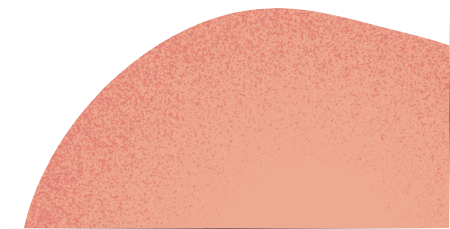
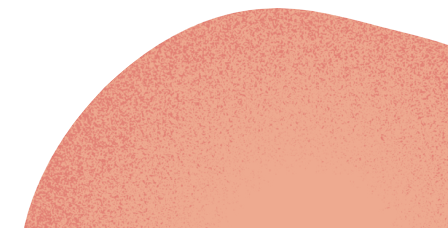
[Commit11] Project completed, Github Collaboration Calendar canceled. TODO: Add responsiveness to rest of items

diff --git a/src/app/feature/about/about.component.css b/src/app/feature/about/about.component.css
@@ -1,6 +1,6 @@
 .about{
     background-color: #EAEAEA;
-    padding-bottom: 2550px;
+    padding-bottom: 2203px;
 }
 .body{
     font-family: 'Montserrat';
@@ -76,7 +76,7 @@
 }
 #blob4{
     position: absolute;
-    top: 2208px;
+    bottom: -235.3%;
     right: 0;
 
     width: 20%;
@@ -85,7 +85,7 @@
 }
 #blob5{
     position: absolute;
-    top: 2234px;
+    bottom: -235.3%;
     left: 0;
 
     width: 20%;
@@ -250,16 +250,6 @@ img{
     left: 25%;
 }
 
-
-.commitsBox{
-    position: absolute;
-    top: 2000px;
-    display: block;
-    align-items: center;
-    text-align: center;
-    width: 100%;
-}
-
 #a{
     width: 800px;
     height: inherit;
@@ -271,7 +261,7 @@ img{
     background-color: transparent;
     height: 150px;
     position: absolute;
-    top: 2400px;
+    top: 2000px;
 }
 
 .text{

diff --git a/src/app/feature/resume/resume.component.html b/src/app/feature/resume/resume.component.html
@@ -19,10 +19,10 @@
             Ou também pode acessar e baixar meu currículo diretamente por aqui!
         </div>
         <div class="resumeImage">
-            <a href="assets/resume.pdf" download="resume.pdf"><img src="assets/resumeImg.jpg" id="resumeImg"></a>
+            <a href="assets/Curriculo_Daniel_Carvalho.pdf" download="Curriculo_Daniel_Carvalho.pdf"><img src="assets/resumeImg.jpg" id="resumeImg"></a>
         </div>
         <div class="downloadBtn">
-            <a id="button" href="assets/resume.pdf" download="resume.pdf">Baixar</a>
+            <a id="button" href="assets/Curriculo_Daniel_Carvalho.pdf" download="Curriculo_Daniel_Carvalho.pdf">Baixar</a>
         </div>
     </div>
     <div class="footer">

diff --git a/src/app/feature/projects/projects.component.css b/src/app/feature/projects/projects.component.css
@@ -3,7 +3,7 @@
          background-repeat: no-repeat;
         background-attachment: scroll;*/
     background-color: #EAEAEA;
-    padding-bottom: 2650px;
+    padding-bottom: 2653px;
 }
 
 .header {
@@ -91,7 +91,7 @@
     height: inherit;
 
     position: absolute;
-    top: 367%;
+    bottom: -304%;
     left: -10%;
 }
 #blob4{
@@ -101,7 +101,7 @@
     height: inherit;
 
     position: absolute;
-    top: 357%;
+    bottom: -304%;
     right: 0;
 }
 #blob5{
@@ -134,6 +134,7 @@
     background-color: white;
     opacity: 0.8;
     transition: 0.5s;
+    border-color: #61616163;
 }
 #cardImg{
     border: #586EA6 solid 6px;

diff --git a/src/app/feature/home/home.component.css b/src/app/feature/home/home.component.css
@@ -3,7 +3,7 @@
      background-repeat: no-repeat;
     background-attachment: scroll;*/
     background-color: #EAEAEA;
-    padding-bottom: 1250px;
+    padding-bottom: 1254px;
 }
 .header{
     /* background-color: red; */
@@ -133,7 +133,7 @@
     height: inherit;
 
     position: absolute;
-    bottom: -90%;
+    bottom: -91%;
     left: 0;
 }
 #blob4{
@@ -141,7 +141,7 @@
     height: inherit;
 
     position: absolute;
-    bottom: -90%;
+    bottom: -91%;
     right: 0;
 }
 #blob5{
@@ -149,7 +149,7 @@
     height: inherit;
 
     position: absolute;
-    top: 500px;
+    top: 70%;
     right: 0;
 }
 

diff --git a/src/app/feature/home/home.component.ts b/src/app/feature/home/home.component.ts
@@ -1,4 +1,5 @@
 import { Component, OnInit } from '@angular/core';
+import {Title} from "@angular/platform-browser";
 
 @Component({
   selector: 'app-home',
@@ -11,7 +12,9 @@ export class HomeComponent implements OnInit {
   dateTime: Date = new Date();
   faders = document.querySelectorAll('.textBox2');
   
-  constructor() { }
+  constructor(private titleService:Title) {
+    this.titleService.setTitle("Portfolio");
+  }
 
   ngOnInit(): void {
     if(this.dateTime.getHours() > 6 && this.dateTime.getHours() <= 11){

diff --git a/src/app/feature/projects/projects.component.ts b/src/app/feature/projects/projects.component.ts
@@ -1,4 +1,5 @@
 import { Component, OnInit } from '@angular/core';
+import {Title} from "@angular/platform-browser";
 
 @Component({
   selector: 'app-projects',
@@ -7,7 +8,9 @@ import { Component, OnInit } from '@angular/core';
 })
 export class ProjectsComponent implements OnInit {
 
-  constructor() { }
+  constructor(private titleService:Title) {
+    this.titleService.setTitle("Portfolio - Projetos");
+  }
 
   ngOnInit(): void {
   }

diff --git a/src/app/feature/resume/resume.component.ts b/src/app/feature/resume/resume.component.ts
@@ -1,4 +1,5 @@
 import { Component, OnInit } from '@angular/core';
+import {Title} from "@angular/platform-browser";
 
 @Component({
   selector: 'app-resume',
@@ -7,7 +8,9 @@ import { Component, OnInit } from '@angular/core';
 })
 export class ResumeComponent implements OnInit {
 
-  constructor() { }
+  constructor(private titleService:Title) {
+    this.titleService.setTitle("Portfolio - Currículo");
+  }
 
   ngOnInit(): void {
   }

diff --git a/src/app/feature/about/about.component.ts b/src/app/feature/about/about.component.ts
@@ -1,4 +1,5 @@
 import { Component, OnInit } from '@angular/core';
+import {Title} from "@angular/platform-browser";
 
 @Component({
   selector: 'app-about',
@@ -7,7 +8,9 @@ import { Component, OnInit } from '@angular/core';
 })
 export class AboutComponent implements OnInit {
 
-  constructor() { }
+  constructor(private titleService:Title) {
+    this.titleService.setTitle("Portfolio - Sobre");
+  }
 
   ngOnInit(): void {
   }

diff --git a/src/app/feature/about/about.component.html b/src/app/feature/about/about.component.html
@@ -110,10 +110,6 @@
                 </div>
             </div>
         </div>
-        <div class="commitsBox">
-            <span id="title">Meus commits</span><br>
-            <img src="assets/githubstuffmock.png" id="a">
-        </div>
     </div>
 </div>
 <div class="footer">
